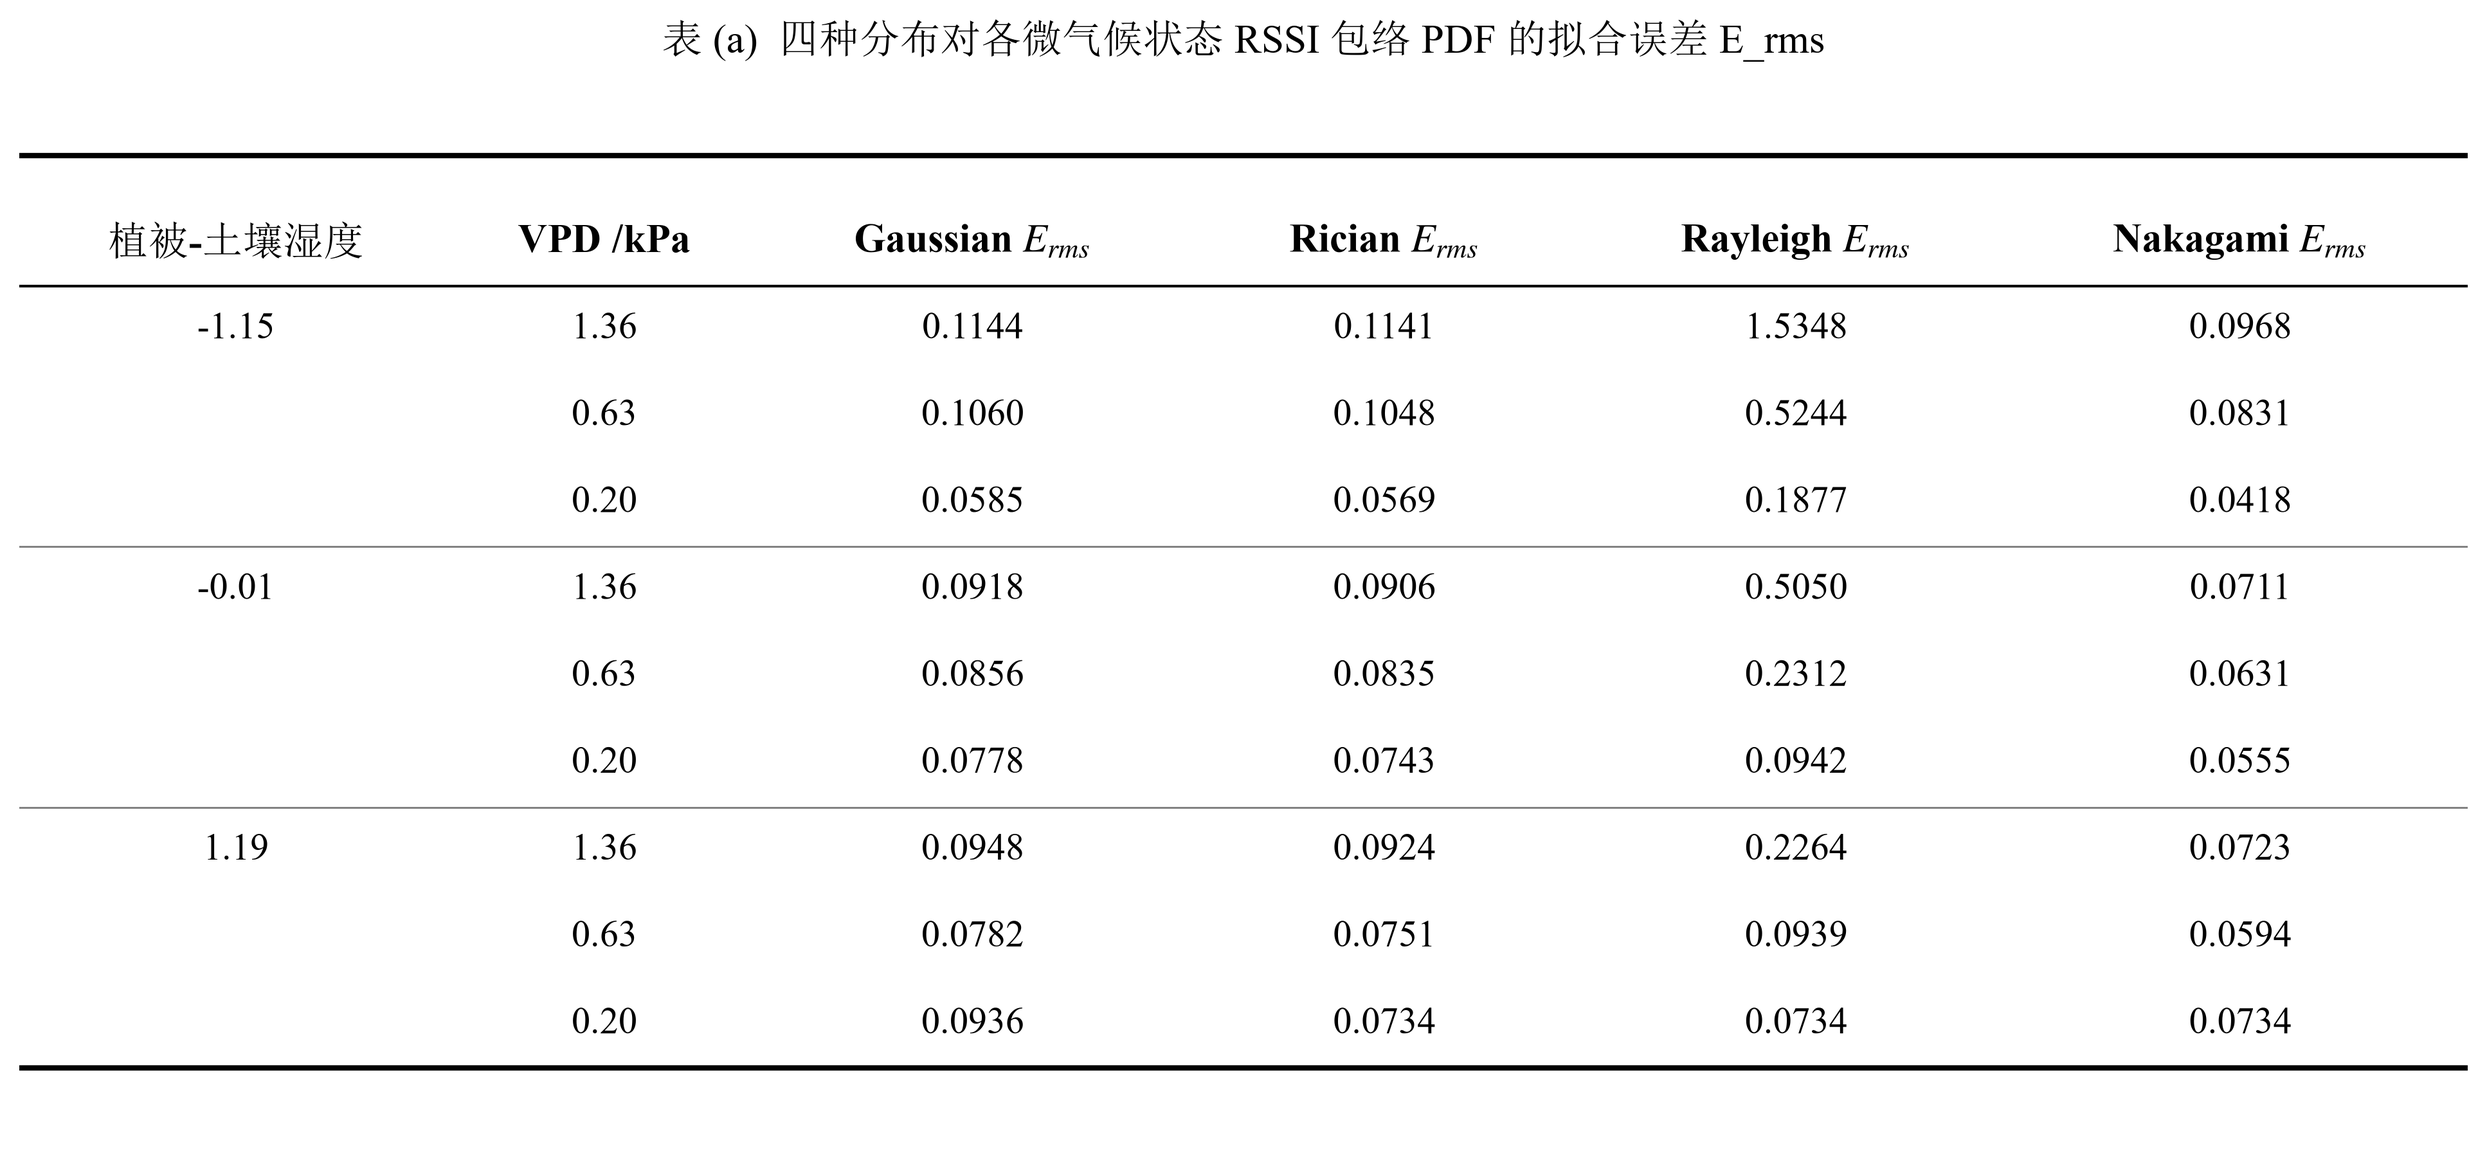
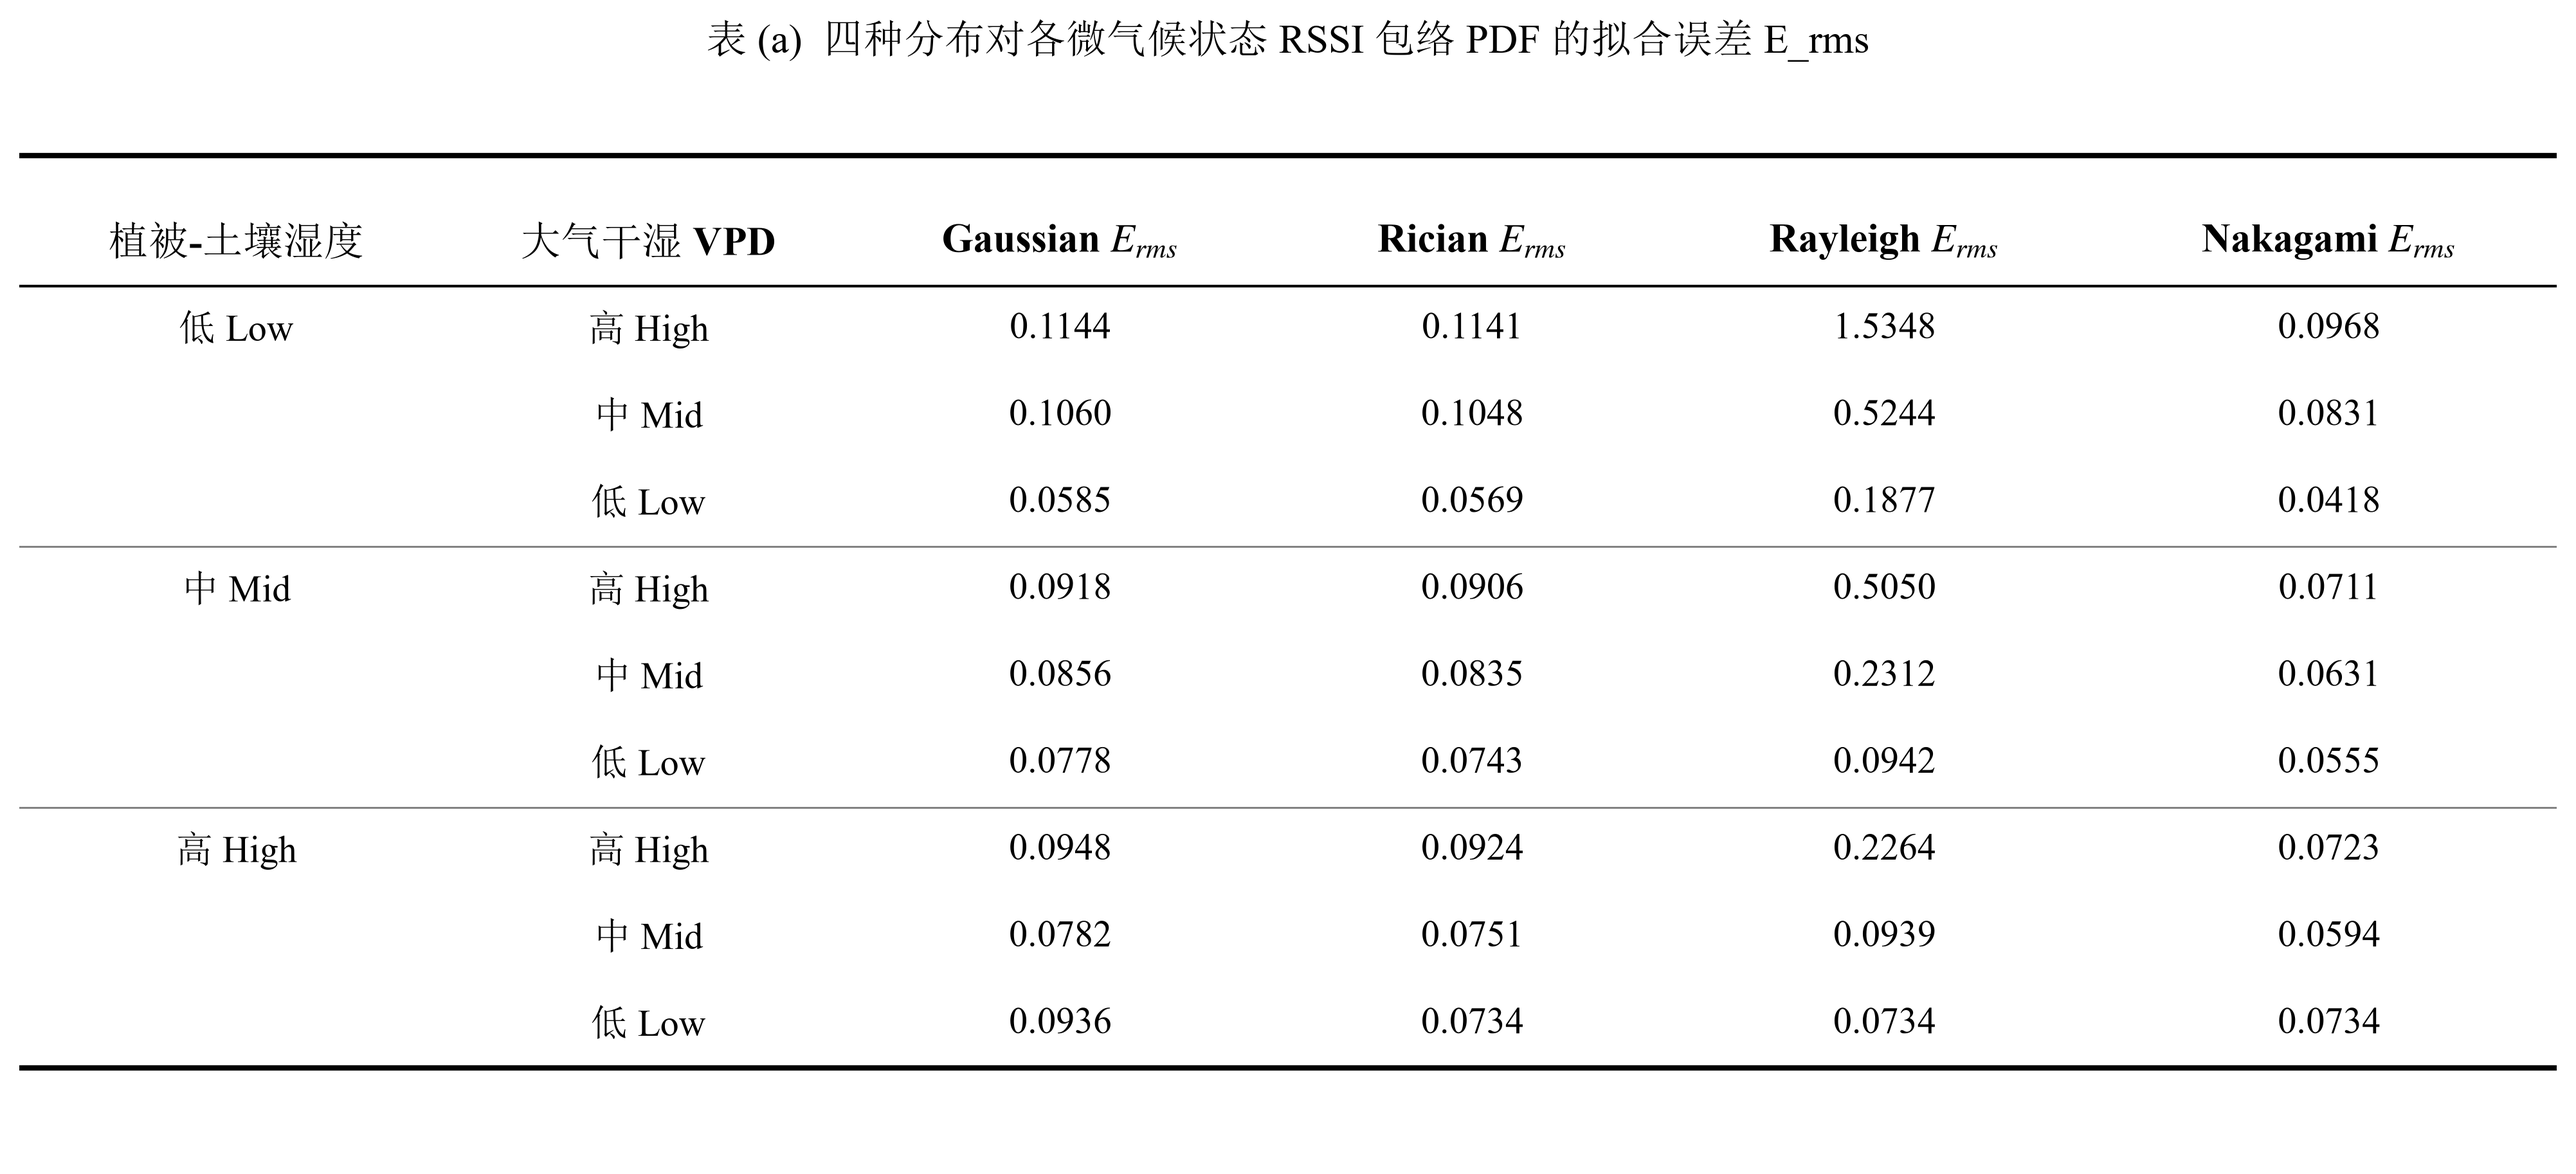
Table (a) only: show microclimate states as Low/Mid/High levels; remove parameter table

diff --git a/microclimate/rssi_fading.py b/microclimate/rssi_fading.py
@@ -294,16 +294,16 @@ def draw_table(colheads, rows, group_rows, fname, title, col_w):
     print("saved", fname)
 
 
-# build row tuples for table (a): E_rms
-heads_a = ["\u690d\u88ab-\u571f\u58e4\u6e7f\u5ea6", "VPD /kPa",
+# build row tuples for table (a): E_rms  (state shown by Low/Mid/High levels)
+heads_a = ["\u690d\u88ab-\u571f\u58e4\u6e7f\u5ea6", "\u5927\u6c14\u5e72\u6e7f VPD",
            "Gaussian $E_{rms}$", "Rician $E_{rms}$",
            "Rayleigh $E_{rms}$", "Nakagami $E_{rms}$"]
 rows_a = []
 for mois in row_order:
     for ci, vpd_l in enumerate(col_order):
         fs = results[(mois, vpd_l)]
-        grp = vs_lab(mois) if ci == 0 else None
-        rows_a.append((grp, vpd_lab(vpd_l),
+        grp = mois if ci == 0 else None
+        rows_a.append((grp, vpd_l,
                        [f"{fs['Gaussian']['Erms']:.4f}",
                         f"{fs['Rician']['Erms']:.4f}",
                         f"{fs['Rayleigh']['Erms']:.4f}",
@@ -311,53 +311,21 @@ for mois in row_order:
 draw_table(heads_a, rows_a, 3, "table_fading_Erms.png",
            "\u8868 (a)  \u56db\u79cd\u5206\u5e03\u5bf9\u5404\u5fae\u6c14\u5019\u72b6\u6001 RSSI "
            "\u5305\u7edc PDF \u7684\u62df\u5408\u8bef\u5dee E_rms",
-           col_w=[2.0, 1.4, 2.0, 1.8, 2.0, 2.1])
-
-# build row tuples for table (b): parameters / indicators
-heads_b = ["\u690d\u88ab-\u571f\u58e4\u6e7f\u5ea6", "VPD /kPa",
-           "Rician $K$ /dB", "Nakagami $m$", "$F_{90}$ /dB", "\u6ce2\u52a8\u6bd4 R_f"]
-rows_b = []
-for mois in row_order:
-    for ci, vpd_l in enumerate(col_order):
-        fs = results[(mois, vpd_l)]
-        grp = vs_lab(mois) if ci == 0 else None
-        F = f90[(mois, vpd_l)]
-        rows_b.append((grp, vpd_lab(vpd_l),
-                       [f"{fs['Rician']['params']['K_dB']:.2f}",
-                        f"{fs['Nakagami']['params']['m']:.2f}",
-                        f"{F:.2f}",
-                        f"{F / f90_mean:.2f}"]))
-draw_table(heads_b, rows_b, 3, "table_fading_param.png",
-           "\u8868 (b)  \u5404\u5fae\u6c14\u5019\u72b6\u6001\u4e0b\u7684\u62df\u5408\u53c2\u6570"
-           "\u4e0e\u94fe\u8def\u7a33\u5b9a\u6027\u6307\u6807",
-           col_w=[2.0, 1.4, 1.9, 1.9, 1.7, 1.7])
+           col_w=[2.0, 1.8, 2.0, 1.8, 2.0, 2.1])
 
 # ----------------------------------------------------------------------------
 # 6) CSV + LaTeX exports
 # ----------------------------------------------------------------------------
 with open(OUT + "table_fading_Erms.csv", "w", newline="", encoding="utf-8-sig") as fc:
     w = csv.writer(fc)
-    w.writerow(["veg_soil_humidity", "VPD_kPa", "Gaussian_Erms", "Rician_Erms",
+    w.writerow(["veg_soil_humidity", "VPD_level", "Gaussian_Erms", "Rician_Erms",
                 "Rayleigh_Erms", "Nakagami_Erms"])
     for mois in row_order:
         for vpd_l in col_order:
             fs = results[(mois, vpd_l)]
-            w.writerow([vs_lab(mois), vpd_lab(vpd_l),
+            w.writerow([mois, vpd_l,
                         f"{fs['Gaussian']['Erms']:.4f}", f"{fs['Rician']['Erms']:.4f}",
                         f"{fs['Rayleigh']['Erms']:.4f}", f"{fs['Nakagami']['Erms']:.4f}"])
-
-with open(OUT + "table_fading_param.csv", "w", newline="", encoding="utf-8-sig") as fc:
-    w = csv.writer(fc)
-    w.writerow(["veg_soil_humidity", "VPD_kPa", "Rician_K_dB", "Nakagami_m",
-                "F90_dB", "R_f"])
-    for mois in row_order:
-        for vpd_l in col_order:
-            fs = results[(mois, vpd_l)]
-            F = f90[(mois, vpd_l)]
-            w.writerow([vs_lab(mois), vpd_lab(vpd_l),
-                        f"{fs['Rician']['params']['K_dB']:.2f}",
-                        f"{fs['Nakagami']['params']['m']:.2f}",
-                        f"{F:.2f}", f"{F / f90_mean:.2f}"])
 
 
 def latex_table(heads, rows, caption, label):
@@ -376,16 +344,10 @@ def latex_table(heads, rows, caption, label):
     return "\n".join(lines)
 
 
-heads_a_tex = [r"植被-土壤湿度", r"VPD /kPa", r"Gaussian $E_{rms}$",
+heads_a_tex = [r"植被-土壤湿度", r"大气干湿 VPD", r"Gaussian $E_{rms}$",
                r"Rician $E_{rms}$", r"Rayleigh $E_{rms}$", r"Nakagami $E_{rms}$"]
-heads_b_tex = [r"植被-土壤湿度", r"VPD /kPa", r"Rician $K$ /dB",
-               r"Nakagami $m$", r"$F_{90}$ /dB", r"波动比 $R_f$"]
 with open(OUT + "table_fading_Erms.tex", "w", encoding="utf-8") as ft:
     ft.write(latex_table(heads_a_tex, rows_a,
                          "四种分布对各微气候状态 RSSI 包络 PDF 的拟合误差 $E_{rms}$",
                          "tab:fading_erms"))
-with open(OUT + "table_fading_param.tex", "w", encoding="utf-8") as ft:
-    ft.write(latex_table(heads_b_tex, rows_b,
-                         "各微气候状态下的拟合参数与链路稳定性指标",
-                         "tab:fading_param"))
 print("saved CSV + LaTeX tables")

diff --git a/microclimate/table_fading_Erms.tex b/microclimate/table_fading_Erms.tex
@@ -4,19 +4,19 @@
 \label{tab:fading_erms}
 \begin{tabular}{llcccc}
 \toprule
-植被-土壤湿度 & VPD /kPa & Gaussian $E_{rms}$ & Rician $E_{rms}$ & Rayleigh $E_{rms}$ & Nakagami $E_{rms}$ \\
+植被-土壤湿度 & 大气干湿 VPD & Gaussian $E_{rms}$ & Rician $E_{rms}$ & Rayleigh $E_{rms}$ & Nakagami $E_{rms}$ \\
 \midrule
--1.15 & 1.36 & 0.1144 & 0.1141 & 1.5348 & 0.0968 \\
- & 0.63 & 0.1060 & 0.1048 & 0.5244 & 0.0831 \\
- & 0.20 & 0.0585 & 0.0569 & 0.1877 & 0.0418 \\
+低 Low & 高 High & 0.1144 & 0.1141 & 1.5348 & 0.0968 \\
+ & 中 Mid & 0.1060 & 0.1048 & 0.5244 & 0.0831 \\
+ & 低 Low & 0.0585 & 0.0569 & 0.1877 & 0.0418 \\
 \midrule
--0.01 & 1.36 & 0.0918 & 0.0906 & 0.5050 & 0.0711 \\
- & 0.63 & 0.0856 & 0.0835 & 0.2312 & 0.0631 \\
- & 0.20 & 0.0778 & 0.0743 & 0.0942 & 0.0555 \\
+中 Mid & 高 High & 0.0918 & 0.0906 & 0.5050 & 0.0711 \\
+ & 中 Mid & 0.0856 & 0.0835 & 0.2312 & 0.0631 \\
+ & 低 Low & 0.0778 & 0.0743 & 0.0942 & 0.0555 \\
 \midrule
-1.19 & 1.36 & 0.0948 & 0.0924 & 0.2264 & 0.0723 \\
- & 0.63 & 0.0782 & 0.0751 & 0.0939 & 0.0594 \\
- & 0.20 & 0.0936 & 0.0734 & 0.0734 & 0.0734 \\
+高 High & 高 High & 0.0948 & 0.0924 & 0.2264 & 0.0723 \\
+ & 中 Mid & 0.0782 & 0.0751 & 0.0939 & 0.0594 \\
+ & 低 Low & 0.0936 & 0.0734 & 0.0734 & 0.0734 \\
 \bottomrule
 \end{tabular}
 \end{table}
